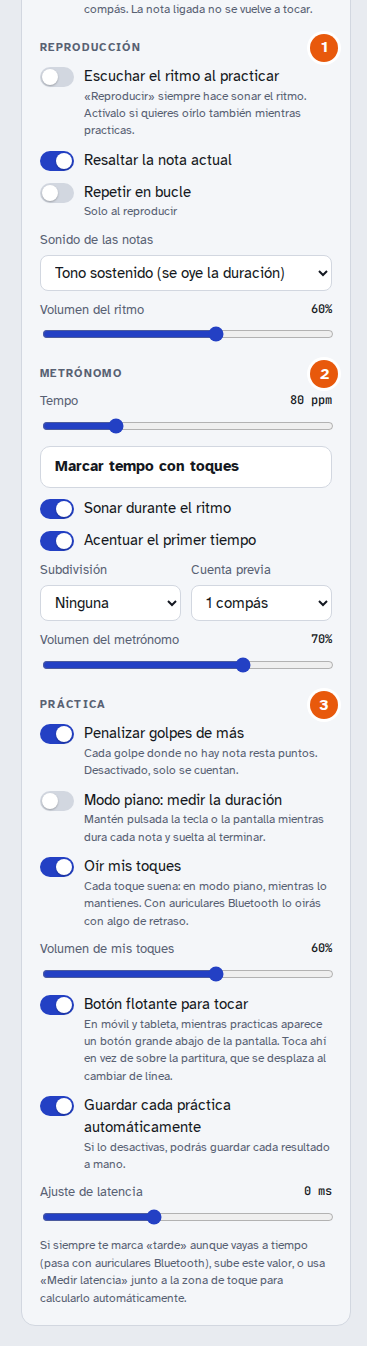
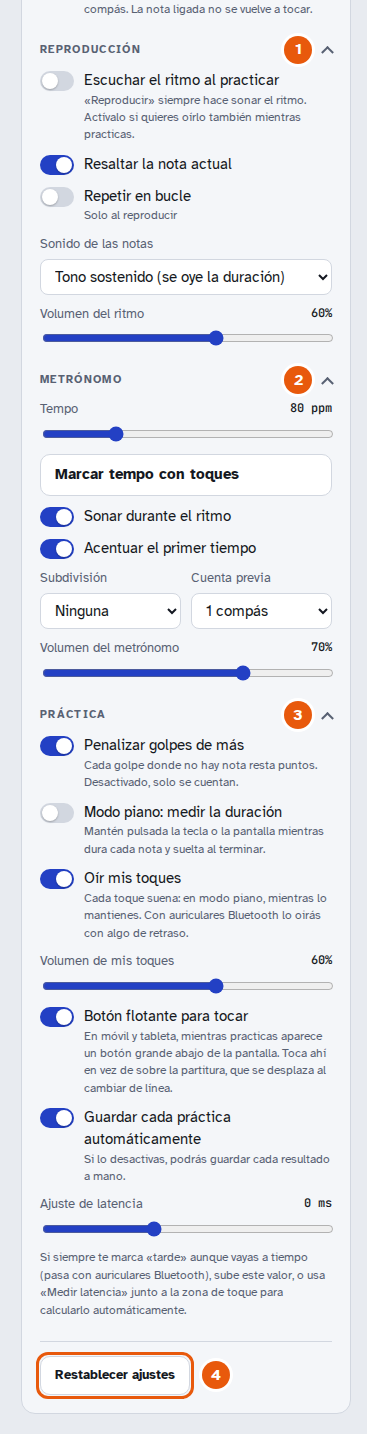
Rehacer las capturas del README con la bienvenida, los paneles plegables y el compás más flojo
Claude-Session: https://claude.ai/code/session_01KR51CwVVXhtFmUshsMceNd

diff --git a/README.md b/README.md
@@ -25,6 +25,15 @@ Abre `index.html` en el navegador (junto a `styles.css`, en la misma carpeta). N
 
 ### 1. La pantalla principal
 
+La primera vez, una tarjeta explica cómo se practica:
+
+![Tarjeta de bienvenida de la primera vez](docs/capturas/bienvenida.png)
+
+1. **Medir latencia ahora:** empieza la medición (recomendable con auriculares Bluetooth).
+2. **Entendido:** cierra la tarjeta. También se cierra sola al terminar la primera práctica.
+
+Después, la pantalla principal queda así:
+
 ![Pantalla principal con las partes numeradas](docs/capturas/1-pantalla-principal.png)
 
 1. **Modo:** *Práctica libre* (tú eliges todo), *Campaña* (niveles guiados) o *Mi progreso*.
@@ -59,6 +68,8 @@ El resumen encima de la partitura recuerda siempre qué está activo. Un ejemplo
 
 <img src="docs/capturas/opciones-sonido.png" alt="Opciones de reproducción, metrónomo y práctica" width="340">
 
+Las tres secciones se pliegan y despliegan pulsando su título (en el móvil empiezan plegadas); la app recuerda cómo las dejaste.
+
 1. **Reproducción:** *Reproducir* siempre hace sonar el ritmo; *Escuchar el ritmo al practicar* lo hace sonar también mientras practicas (viene apagada, para que lo leas tú). También: resaltar la nota actual, repetir en bucle, sonido de las notas (tono sostenido o golpe) y volumen.
 2. **Metrónomo:** tempo, marcar el tempo con toques, sonar durante el ritmo, acento en el primer tiempo, subdivisión, compases de cuenta previa y volumen.
 3. **Práctica:**
@@ -69,6 +80,7 @@ El resumen encima de la partitura recuerda siempre qué está activo. Un ejemplo
    - *Vibrar al tocar:* solo en pantallas táctiles que lo admiten.
    - *Guardar cada práctica automáticamente* en *Mi progreso*.
    - *Ajuste de latencia:* la corrección manual; *Medir latencia* la calcula por ti.
+4. **Restablecer ajustes:** vuelve a las opciones iniciales (pide confirmación). Conserva tu progreso y la corrección de latencia.
 
 ### 4. Toca sobre la partitura
 
@@ -94,7 +106,9 @@ Los botones para repetir la práctica o pedir un nuevo ritmo quedan arriba, junt
 4. **Recuento:** exactas, bien, cerca, sin tocar y golpes de más.
 5. **Golpe de más:** un triángulo gris marca dónde tocaste sin que hubiera nota (en un silencio, en la parte sostenida de una figura larga o en una nota ligada).
 
-Si el ritmo tiene varios compases y alguno baja del 90 %, el resultado indica **el compás más flojo** y ofrece *Practicar el compás N*: se practica solo ese compás, tal cual, hasta que salga. *Ritmo completo* (junto a *Nuevo ritmo*) vuelve al ritmo entero. En la campaña, practicar un compás suelto no cuenta para las estrellas del nivel.
+![Resultado con el compás más flojo y el botón para practicarlo](docs/capturas/compas-flojo.png)
+
+1. **Compás más flojo:** si el ritmo tiene varios compases y alguno baja del 90 %, el resultado lo indica y ofrece *Practicar el compás N*: se practica solo ese compás, tal cual, hasta que salga. *Ritmo completo* (junto a *Nuevo ritmo*) vuelve al ritmo entero. En la campaña, practicar un compás suelto no cuenta para las estrellas del nivel.
 
 #### En modo piano
 

diff --git a/CLAUDE.md b/CLAUDE.md
@@ -43,7 +43,7 @@ Nació como un Artifact publicado en claude.ai. Allí el progreso se guardaba en
 
 **Panel:** Reproducción, Metrónomo y Práctica son `<details class="fold" data-fold="…">`. Abiertos por defecto en pantallas de más de 920 px y plegados en las estrechas; `set.folds` solo guarda lo que el usuario cambia respecto a ese valor por defecto. «Restablecer ajustes» vuelve a `freshSettings()` conservando `offset`, `view`, `level`, `levelId` y `seen`. En pantallas táctiles, `.step` mide 44 px y `set.vibrate` (si existe `navigator.vibrate`) vibra 12 ms en cada toque de puntero durante la práctica o la medición. Sin puntero fino se ocultan los atajos de teclado (`.keys`, `.kb`). En la campaña, `#tLock` («Fijado por el nivel») acompaña al tempo deshabilitado.
 
-**Capturas del README:** están en `docs/capturas/` (las seis numeradas de la pantalla principal y los modos, y las descriptivas de opciones, ejemplo de ritmo, modo piano, latencia, nivel superado y móvil en reposo), hechas con Playwright (Chromium) a 1200 px (y 390 px ×2 las de móvil), con datos de ejemplo y marcadores numerados añadidos al DOM solo para la captura. Si cambia la interfaz, conviene rehacerlas.
+**Capturas del README:** están en `docs/capturas/` (las seis numeradas de la pantalla principal y los modos, y las descriptivas de bienvenida, opciones, ejemplo de ritmo, compás más flojo, modo piano, latencia, nivel superado y móvil en reposo; todas salvo la de bienvenida con `seen:true` para que no salga la tarjeta), hechas con Playwright (Chromium) a 1200 px (y 390 px ×2 las de móvil), con datos de ejemplo y marcadores numerados añadidos al DOM solo para la captura. Si cambia la interfaz, conviene rehacerlas.
 
 ## Convenciones y decisiones
 
@@ -74,4 +74,3 @@ Nació como un Artifact publicado en claude.ai. Allí el progreso se guardaba en
 - Separar el JS en scripts clásicos (`audio.js`, `notation.js`, `scoring.js`…) si crece más de ~2500 líneas. Evitar módulos ES: rompen la apertura directa con `file://`.
 - Más compases (6/4, 10/8…) y niveles; síncopas dentro del compás compuesto.
 - Exportar el historial (CSV), «ver todo» el historial y puntos de la gráfica accesibles con teclado.
-- Rehacer las capturas del README con la tarjeta de bienvenida, los paneles plegables y el compás más flojo.
